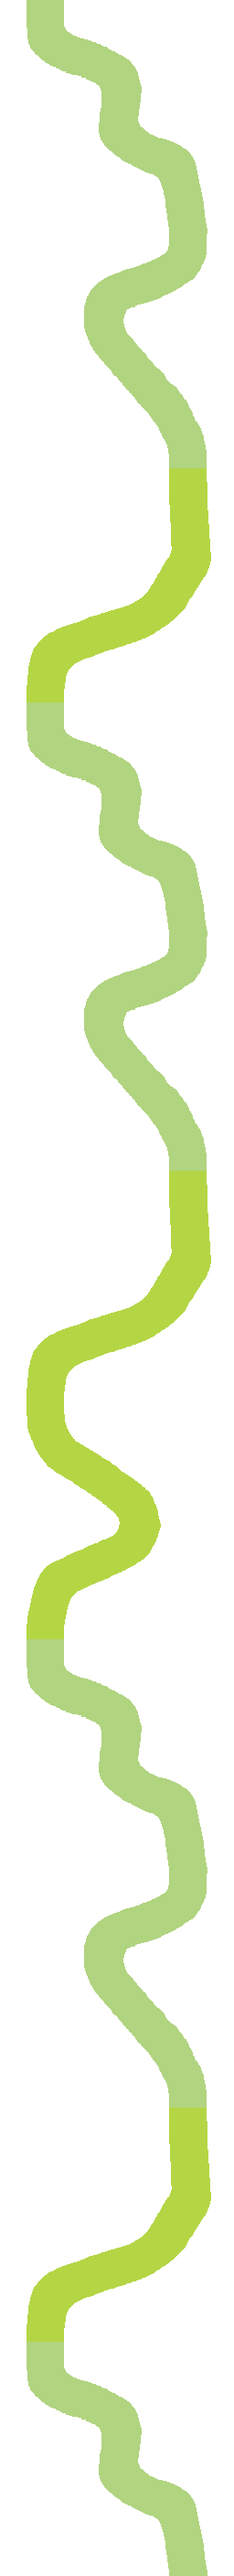
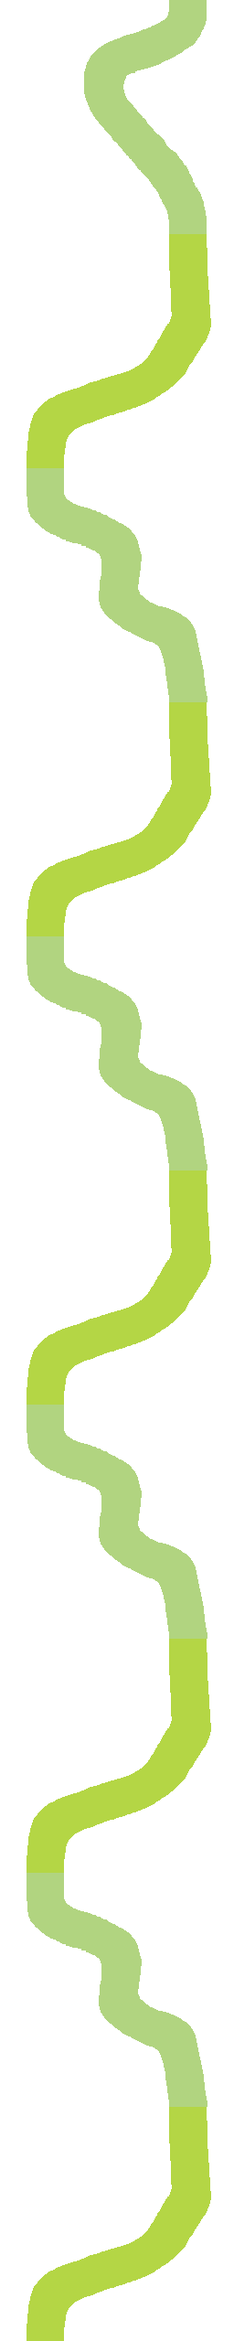
Modifiche croccanti: la macchina non esce dalla mappa (da sistemare)

diff --git a/src/main/java/com/example/carrace12/ImplementazioneGrafica.java b/src/main/java/com/example/carrace12/ImplementazioneGrafica.java
@@ -81,22 +81,20 @@ public class ImplementazioneGrafica extends Application{
 
         mapB.background.setX(0);
 
-        System.out.println(mapB.background.getFitHeight());
-
         Group root = new Group(mapB.background, sprite.car);
         Scene scene = new Scene(root, xDimFinestra, yDimFinestra);
+
 
         scene.setOnKeyPressed(new EventHandler<KeyEvent>() {
             @Override
             public void handle(KeyEvent event) {
-                //prova ad usare uno switch per il break
 
                 switch (event.getCode()){
                     case W:
-                        /*case UP:*/{
+                        case UP:{
 
-                        if (sprite.getPositionY() < 250) {
-                            mapB.setVelYB(2);
+                        if (sprite.getPositionY() < 250 && mapB.getYMap()<-720) {
+                            mapB.setVelYB(15);
                             sprite.setVelY(0);
 
                         } else {
@@ -105,8 +103,8 @@ public class ImplementazioneGrafica extends Application{
                         break;
                     }
                     case S:
-                        /*case DOWN:*/{
-                        if (sprite.getPositionY() > 500) {
+                        case DOWN:{
+                        if (sprite.getPositionY() > 500){
                             mapB.setVelYB(-2);
                             sprite.setVelY(0);
 
@@ -117,13 +115,13 @@ public class ImplementazioneGrafica extends Application{
                     }
 
                     case A:
-                        /*case LEFT:*/{
-                        sprite.setVelX(-2);
+                        case LEFT:{
+                            sprite.setVelX(-2);
                         break;
                     }
 
                     case D:
-                        /*case RIGHT:*/{
+                        case RIGHT:{
                         sprite.setVelX(2);
                         break;
                     }
@@ -137,19 +135,30 @@ public class ImplementazioneGrafica extends Application{
         scene.setOnKeyReleased(new EventHandler<KeyEvent>() {
             @Override
             public void handle(KeyEvent event) {
-                if (event.getCode() == KeyCode.W){
-                    sprite.setVelY(0);
-                    mapB.setVelYB(0);
-                }
-                if (event.getCode() == KeyCode.S){
-                    sprite.setVelY(0);
-                    mapB.setVelYB(0);
-                }
-                if (event.getCode() == KeyCode.A){
-                    sprite.setVelX(0);
-                }
-                if (event.getCode() == KeyCode.D){
-                    sprite.setVelX(0);
+                switch (event.getCode()){
+                    case W:
+                    case UP:{
+                        sprite.setVelY(-sprite.velYDefault);
+                        mapB.setVelYB(0);
+                        break;
+                    }
+                    case S:
+                    case DOWN:{
+                        sprite.setVelY(0);
+                        mapB.setVelYB(0);
+                    }
+
+                    case A:
+                    case LEFT:{
+                        sprite.setVelX(0);
+                        break;
+                    }
+
+                    case D:
+                    case RIGHT:{
+                        sprite.setVelX(0);
+                        break;
+                    }
                 }
             }
         });

diff --git a/src/main/java/com/example/carrace12/SpriteCar.java b/src/main/java/com/example/carrace12/SpriteCar.java
@@ -12,7 +12,8 @@ import java.io.InputStream;
 public class SpriteCar {
     private double positionX;
     private double positionY;
-    private int velX = 0, velY=0;
+    double velYDefault = 0.5;
+    private double velX = 0, velY=0;
     AnimationTimer atS;
     ImageView car = new ImageView();
 
@@ -32,10 +33,16 @@ public class SpriteCar {
         atS = new AnimationTimer() {
             @Override
             public void handle(long l) {
-                positionX += velX;
+                if( ((car.getX()+velX)>0) && ((car.getX()+velX) < ImplementazioneGrafica.xDimFinestra-20)){
+                    positionX += velX;
+                }
                 car.setX(positionX);
 
-                positionY += velY;
+                if( (car.getY()+velY)<700){
+                    positionY += velY;
+                }
+
+
                 car.setY(positionY);
             }
         };
@@ -43,17 +50,16 @@ public class SpriteCar {
     }
 
     void inclinazione (){}
-    void setVelX(int speed){
+    void setVelX(double speed){
         velX=speed;
     }
-    void setVelY(int speed){
+    void setVelY(double speed){
         velY=speed;
     }
     double getPositionX(){
         return positionX;
     }
     double getPositionY(){return positionY;}
-
 
 
 /*

diff --git a/src/main/java/com/example/carrace12/mapBackground.java b/src/main/java/com/example/carrace12/mapBackground.java
@@ -18,8 +18,10 @@ public class mapBackground {
     AnimationTimer atB;
     private double yMap;
     private double velY;
+    private double yMapStart;
     public mapBackground(Map map) throws IOException {
         yMap = -(map.length()*CHUNK_WIDTH*4);
+        yMapStart = yMap;
         System.out.println("mapB: " + yMap);
         InputStream stream = new FileInputStream("src/main/resources/map.png");
         Image img = new Image(stream);
@@ -27,7 +29,10 @@ public class mapBackground {
         atB = new AnimationTimer() {
             @Override
             public void handle(long l) {
-                yMap += velY;
+                if((yMap+velY)>=yMapStart && (yMap+velY)<=-720){
+                    yMap += velY;
+                    System.out.println("POSIZIONEEE:"+yMap);
+                }
                 background.setY(yMap + ImplementazioneGrafica.yDimFinestra);
             }
         };
@@ -35,5 +40,11 @@ public class mapBackground {
 
     void setVelYB(int speed){
         velY=speed;
+    }
+    double getYMapStart() {
+        return yMapStart;
+    }
+    double getYMap(){
+        return yMap;
     }
 }
